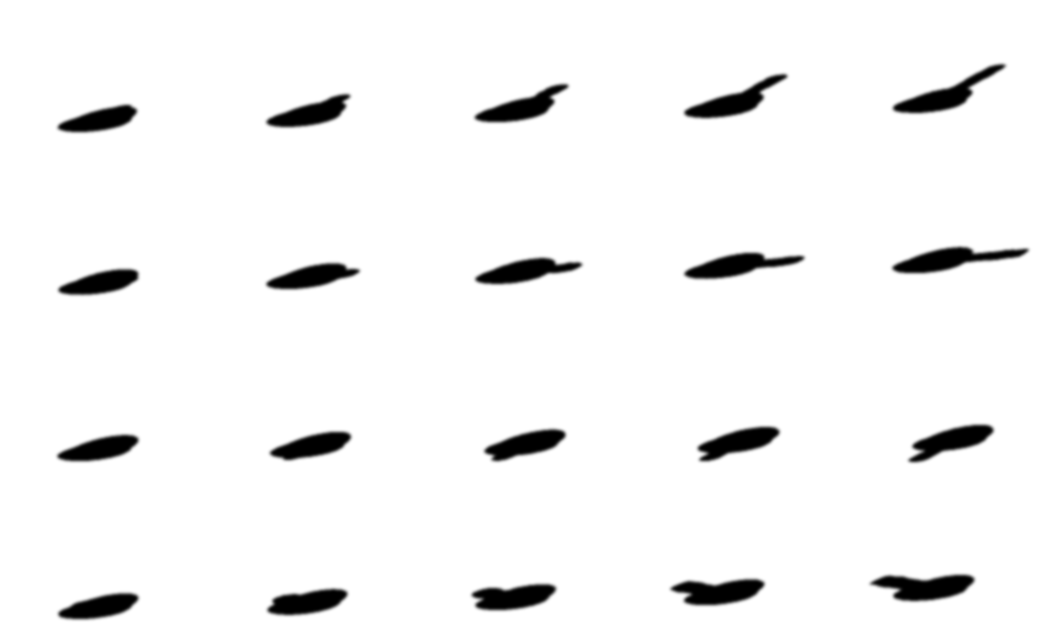
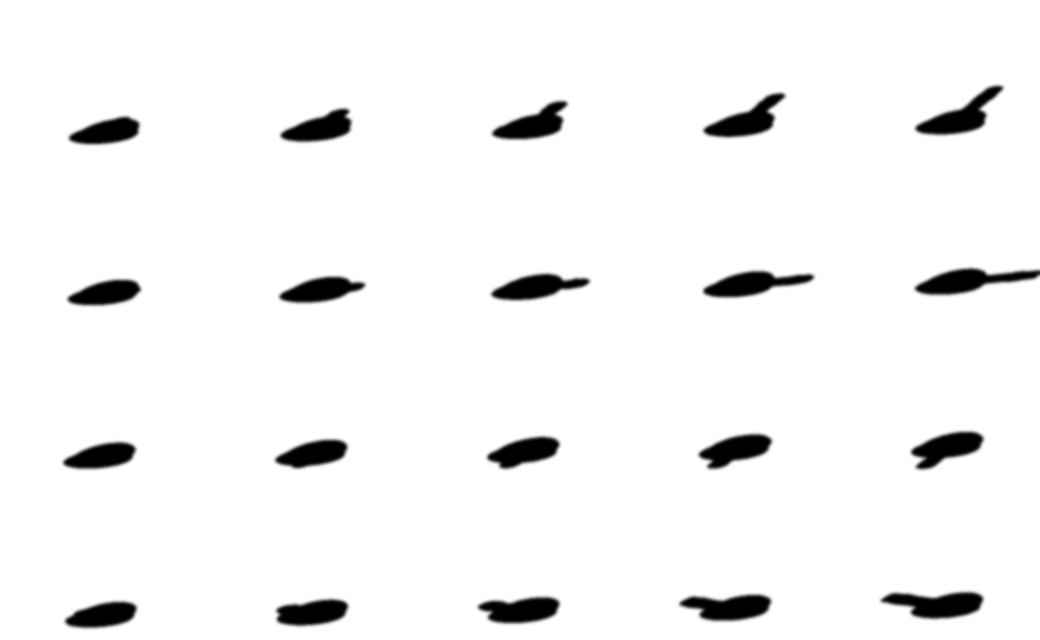
Vulcanus Demolisher Lifecycle: fix repacked shadows and mask fringe; 3-image packing
Review of the Nano Banana run (all 17 approved images pass the checker):
- Turret head shadows were projected from the head's own bottom and floated above the ground;
  they now fall on a ground line 44 px below the head (where the base stands), kept inside the
  shadow frame.
- The cyan player-colour area's dark-blue edge pixels are now absorbed into the mask instead of
  showing as a blue fringe on the collar.
- Re-applied every approved job; sprite check clean; preview updated.

Pipeline, from the agent's notes:
- kit.py --pack JOB packs a job's attachments into at most 3 images (layout, approved results
  sheet, vanilla references sheet); the preamble describes the sheets; AGENT.md uses it.
- check accepts the nearest supported aspect ratio (within 8%); AGENT.md says to save as is.
- AGENT.md: list missing vanilla references rather than substituting files.

Claude-Session: https://claude.ai/code/session_01Vp7HqdS8cvfkaxr5qz9UXH

diff --git a/art/vulcanus-demolisher-lifecycle/repack.py b/art/vulcanus-demolisher-lifecycle/repack.py
@@ -54,10 +54,15 @@ def hsv(img):
     return a[..., 0] * 360 / 255, a[..., 1] / 255, a[..., 2] / 255
 
 
-def cyan_pixels(img):
+def cyan_pixels(img, fringe=False):
     h, s, v = hsv(img)
     alpha = np.asarray(img)[..., 3] > 40
-    return alpha & (h > 160) & (h < 205) & (s > 0.3) & (v > 0.12)
+    core = alpha & (h > 160) & (h < 205) & (s > 0.3) & (v > 0.12)
+    if not fringe or not core.any():
+        return core
+    # Edges where the cyan darkens or blends toward blue belong to the same area.
+    near = np.asarray(Image.fromarray(core.astype(np.uint8) * 255).filter(ImageFilter.MaxFilter(5))) > 0
+    return core | (near & alpha & (h > 150) & (h < 265) & (s > 0.15))
 
 
 def hot_pixels(img):
@@ -75,7 +80,7 @@ def purple_pixels(img):
 def split_mask(img):
     """Cyan -> (main with neutral grey there, greyscale mask)."""
     arr = np.asarray(img).astype(np.float32).copy()
-    sel = cyan_pixels(img)
+    sel = cyan_pixels(img, fringe=True)
     _, _, v = hsv(img)
     grey = (v * 255 * 0.8)[sel]
     arr[sel, 0] = grey
@@ -104,19 +109,20 @@ def flat_shadow_of(img, size):
     return out
 
 
-def shadow_of(img, size):
+def shadow_of(img, size, float_px=0):
     """Silhouette projected onto the ground to the right (light from the upper left), in a frame of
-    `size` whose left edge lines up with img's."""
+    `size` whose left edge lines up with img's. The ground is float_px below the object's lowest
+    point (for a turret head, which is drawn above its base)."""
     alpha = img.getchannel("A").point(lambda a: 255 if a > 80 else 0)
     bbox = alpha.getbbox()
     out = Image.new("RGBA", size, (0, 0, 0, 0))
     if not bbox:
         return out
-    yb = bbox[3]
-    kv, s = 0.5, 0.9   # vertical squash toward the base, rightward shear
-    canvas = Image.new("L", size, 0)
+    yg = min(bbox[3] + float_px, size[1] - 4)   # the ground line stays inside the frame
+    kv, s = 0.5, 0.6 if float_px else 0.9   # vertical squash toward the ground, rightward shear
+    canvas = Image.new("L", (size[0], max(size[1], yg + 1)), 0)
     canvas.paste(alpha, (0, 0))
-    projected = canvas.transform(size, Image.AFFINE, (1, s / kv, -s * yb / kv, 0, 1 / kv, yb * (1 - 1 / kv)),
+    projected = canvas.transform(size, Image.AFFINE, (1, s / kv, -s * yg / kv, 0, 1 / kv, yg * (1 - 1 / kv)),
                                  resample=Image.BILINEAR)
     projected = projected.filter(ImageFilter.GaussianBlur(1.5))
     out.putalpha(projected)
@@ -209,8 +215,10 @@ def check(job, img):
                         f"(need {job.min_background:.0%}): background not pure #FF00FF?")
     w, h = img.size
     want = job.size[0] / job.size[1]
-    if abs(w / h - want) > 0.03:
-        problems.append(f"aspect ratio {w}x{h} is not {job.aspect}")
+    # A tool without the job's ratio may use the nearest one: the image is resized to the job's
+    # size, which undoes the stretch the model applied when following the layout.
+    if abs(w / h - want) / want > 0.08:
+        problems.append(f"aspect ratio {w}x{h} is too far from {job.aspect}")
     return dict(job=job.name, passed=not problems, problems=problems, cells=rows,
                 magenta_background=round(float(magenta_share), 3), image_size=[w, h])
 
@@ -233,6 +241,7 @@ def apply(job, img):
         s.paste(Image.new("RGBA", (frame.w, frame.h), (0, 0, 0, 0)), box[:2])
         s.paste(image.crop((0, 0, frame.w, frame.h)), box[:2])
 
+    clipped = []
     for slot, f in zip(job.slots, frames):
         if slot is None:
             continue
@@ -246,10 +255,17 @@ def apply(job, img):
             put(slot.glow, glow_of(f))
         if slot.shadow:
             make = flat_shadow_of if slot.flat_shadow else shadow_of
-            put(slot.shadow, make(main, (slot.shadow.w, slot.shadow.h)))
+            size = (slot.shadow.w, slot.shadow.h)
+            shadow = make(main, size) if slot.flat_shadow else make(main, size, slot.float_px)
+            box = shadow.getbbox()
+            if box and (box[2] >= size[0] or box[3] >= size[1]):
+                clipped.append(slot.shadow.rel)
+            put(slot.shadow, shadow)
         put(slot.main, main)
     for rel, img_ in sheets.items():
         img_.save(J.GRAPHICS / rel, optimize=True)
+    if clipped:
+        print(f"  note: {len(clipped)} shadow frame(s) reach the frame edge and are cut off")
     return sorted(sheets)
 
 

diff --git a/art/vulcanus-demolisher-lifecycle/kit.py b/art/vulcanus-demolisher-lifecycle/kit.py
@@ -13,6 +13,14 @@ kit/<job>/manifest.json:
   results of earlier jobs, then vanilla references), prompt (the full prompt text), output (where
   the approved image goes).
 Approved results are listed even before they exist; they must exist when the job runs.
+
+Image tools often take only a few attachments (Gemini's takes 3), so before generating a job run
+
+    python3 art/vulcanus-demolisher-lifecycle/kit.py --pack JOB
+
+It packs the job's attachments into at most 3 images in its kit folder and prints their paths:
+the layout, one sheet of the approved results it depends on (if any), and one sheet of the
+vanilla references.
 """
 
 import argparse
@@ -70,6 +78,46 @@ def rel(path):
     return str(path.relative_to(J.REPO))
 
 
+def contact_sheet(images, background, max_side=2048, gap=16):
+    """Images side by side in a near-square grid, each scaled to fit its tile."""
+    cols = max(1, round(len(images) ** 0.5 + 0.49))
+    rows = -(-len(images) // cols)
+    tile = (max_side - gap * (cols + 1)) // cols
+    out = Image.new("RGB", (cols * tile + gap * (cols + 1), rows * tile + gap * (rows + 1)), background)
+    for i, img in enumerate(images):
+        img = img.convert("RGB")
+        k = min(tile / img.width, tile / img.height)
+        img = img.resize((max(1, round(img.width * k)), max(1, round(img.height * k))), Image.LANCZOS)
+        x = gap + (i % cols) * (tile + gap) + (tile - img.width) // 2
+        y = gap + (i // cols) * (tile + gap) + (tile - img.height) // 2
+        out.paste(img, (x, y))
+    return out
+
+
+def pack(name):
+    """The job's attachments as at most 3 images; returns their paths."""
+    job = J.BY_NAME[name]
+    n = J.JOBS.index(job) + 1
+    d = J.KIT / f"{n:02d}-{name}"
+    manifest = json.loads((d / "manifest.json").read_text())
+    paths = [J.REPO / p for p in manifest["attachments"]]
+    approved = [p for p in paths if p.parent == J.APPROVED]
+    missing = [p for p in approved if not p.exists()]
+    if missing:
+        sys.exit("approve these first: " + ", ".join(p.stem for p in missing))
+    vanilla = [p for p in paths[1:] if p.parent != J.APPROVED]
+    out = [paths[0]]
+    if approved:
+        sheet = d / "packed-approved.png"
+        contact_sheet([Image.open(p) for p in approved], (255, 0, 255)).save(sheet)
+        out.append(sheet)
+    if vanilla:
+        sheet = d / "packed-references.png"
+        contact_sheet([Image.open(p) for p in vanilla], (128, 128, 128)).save(sheet)
+        out.append(sheet)
+    return out
+
+
 def build(data_dir):
     if J.KIT.exists():
         shutil.rmtree(J.KIT)
@@ -125,7 +173,12 @@ def main():
     ap = argparse.ArgumentParser(description=__doc__, formatter_class=argparse.RawDescriptionHelpFormatter)
     ap.add_argument("--factorio-data", type=lambda p: __import__("pathlib").Path(p).expanduser())
     ap.add_argument("--list", action="store_true", help="print the jobs in order and exit")
+    ap.add_argument("--pack", metavar="JOB", help="pack JOB's attachments into at most 3 images and print them")
     args = ap.parse_args()
+    if args.pack:
+        for p in pack(args.pack):
+            print(rel(p))
+        return 0
     if args.list:
         for n, job in enumerate(J.JOBS, 1):
             done = (J.APPROVED / f"{job.name}.png").exists()

diff --git a/art/vulcanus-demolisher-lifecycle/jobs.py b/art/vulcanus-demolisher-lifecycle/jobs.py
@@ -46,6 +46,7 @@ class Slot:
     glow: Frame = None
     shadow: Frame = None
     flat_shadow: bool = False
+    float_px: int = 0        # how far the bottom of the object is above the ground, in frame px
 
 
 @dataclass
@@ -82,9 +83,10 @@ and textures from the references over inventing new ones.
 The FIRST attached image is the layout: a grid with exactly what goes in each cell. Keep the same
 grid, the same number of cells, each object centred in its cell at the same position and size as
 in the layout, and the same facing direction and pose per cell. Replace the layout's flat shapes
-with finished art; don't move, resize, rotate, add or remove anything. Any further attached
-images that are earlier approved results of this same project define the design: match them
-exactly.
+with finished art; don't move, resize, rotate, add or remove anything. The other attached images
+are reference sheets: one with a magenta background collects earlier approved results of this
+same project, which define the design (match them exactly); one with a grey background collects
+vanilla Factorio sprites, for the style and the parts to kitbash from.
 
 Output rules:
 - Background: flat, uniform pure magenta #FF00FF everywhere that isn't the object. No gradient,
@@ -238,12 +240,16 @@ def whole_turret(direction):
 # Slots
 
 T = "entity/lure-turret/"
+# The head is drawn 44 px higher than the base (shifts -24 and -2 game px, doubled here): its
+# shadow falls that far below it.
+HEAD_FLOAT = 44
 
 
 def shooting_slot(stripe, col, row):
     return Slot(Frame(f"{T}lure-turret-shooting-{stripe}.png", 160, 160, col, row),
                 mask=Frame(f"{T}lure-turret-shooting-mask-{stripe}.png", 160, 160, col, row),
-                shadow=Frame(f"{T}lure-turret-shooting-shadow-{stripe}.png", 208, 160, col, row))
+                shadow=Frame(f"{T}lure-turret-shooting-shadow-{stripe}.png", 208, 160, col, row),
+                float_px=HEAD_FLOAT)
 
 
 BASE_SLOT = Slot(Frame(f"{T}lure-turret-base.png", 160, 160),
@@ -321,7 +327,7 @@ JOBS.append(Job(
     name="turret-raising", aspect="5:4", size=(1280, 1024), grid=(5, 4),
     slots=[Slot(Frame(f"{T}lure-turret-raising.png", 160, 160, k, d),
                 mask=Frame(f"{T}lure-turret-raising-mask.png", 160, 160, k, d),
-                shadow=Frame(f"{T}lure-turret-raising-shadow.png", 208, 160, k, d))
+                shadow=Frame(f"{T}lure-turret-raising-shadow.png", 208, 160, k, d), float_px=HEAD_FLOAT)
            for d in range(4) for k in range(5)],
     player_colour=True, prompt=TURRET_RAISING, depends=["turret-design", "turret-shooting-1-idle"],
     vanilla=[V_GUN_RAISING],

diff --git a/art/vulcanus-demolisher-lifecycle/AGENT.md b/art/vulcanus-demolisher-lifecycle/AGENT.md
@@ -25,9 +25,12 @@ Everything you need is in this folder (`art/vulcanus-demolisher-lifecycle/`):
 - **Prompts:** use each job's prompt exactly as given in its manifest. You may append a short
   correction paragraph when regenerating (see the loop), but never remove or reword the given
   text.
-- **Attachments:** attach the images in the manifest's order. The layout grid is always first.
-- **Aspect ratio:** always ask for the manifest's aspect ratio, and the largest output size the
-  tool offers. Use Nano Banana Pro if you can choose; otherwise the default image model.
+- **Attachments:** attach exactly the images `kit.py --pack <job>` prints, in that order (at most 3:
+  the layout first). Don't build your own composites.
+- **Aspect ratio:** ask for the manifest's aspect ratio, and the largest output size the tool
+  offers. If the tool doesn't offer that ratio, use the nearest one it has and save the result
+  as it comes; `check` and `apply` resize it themselves. Use Nano Banana Pro if you can choose;
+  otherwise the default image model.
 - **Git:** don't push and don't open pull requests. Commit locally at the end (see Finish).
 - **When to stop and ask:** only for the problems listed under "Stop and ask". Everything else
   you decide yourself and record in the report.
@@ -47,7 +50,9 @@ Everything you need is in this folder (`art/vulcanus-demolisher-lifecycle/`):
    macOS `factorio.app/Contents/MacOS/factorio`); it's used for the final check.
 3. Build the kit from the repository root:
    `python3 art/vulcanus-demolisher-lifecycle/kit.py --factorio-data "<data folder>"`.
-   It must finish without "Missing vanilla references".
+   If it reports missing vanilla references, first check you have the right `data/` folder.
+   If files are still missing, carry on without them and list them in the report; don't
+   substitute other files.
 4. Run `python3 art/vulcanus-demolisher-lifecycle/kit.py --list` to see the jobs in order and
    which are already approved. Approved images live in `art/vulcanus-demolisher-lifecycle/approved/`;
    skip those jobs (this lets you resume).
@@ -57,9 +62,10 @@ Everything you need is in this folder (`art/vulcanus-demolisher-lifecycle/`):
 Each job's folder is `art/vulcanus-demolisher-lifecycle/kit/NN-<job>/`. Read its `manifest.json`.
 1. **Check prerequisites.** Every `approved/...` path in `attachments` must exist. They do if you
    go in order.
-2. **Generate.** Call the image tool with:
+2. **Generate.** Run `python3 art/vulcanus-demolisher-lifecycle/kit.py --pack <job>`, then call
+   the image tool with:
    - the manifest's `prompt`;
-   - all `attachments`, in order;
+   - the images it printed, in order;
    - the manifest's `aspect_ratio`.
 
    Save the result as `art/vulcanus-demolisher-lifecycle/work/<job>/attempt-N.png`, with N

diff --git a/art/vulcanus-demolisher-lifecycle/REPORT.md b/art/vulcanus-demolisher-lifecycle/REPORT.md
@@ -41,3 +41,21 @@ None.
 - **Lure turret (`preview.png` and in-game):** Check the turret collar ring at south/south-west headings in game—in `preview.png`, a faint ~1 px dark-blue fringe appears along the shadowed front edge of the collar where `split_mask` stops thresholding dark cyan (`v <= 0.12` or `s <= 0.3`), and verify smooth rotation/recoil/raising animation transitions across all 64 firing directions.
 - **Eggs and nests:** Verify the glow intensity of egg seams (`demolisher-egg-glow.png`) and nest fissures against Vulcanus terrain, and check whether `nest-2` needs more distinct outer rock variation from `nest-1` when multiple nests sit side by side.
 - **Icons and technology:** Check the `lure-turret` item icon (`64x64`, slight framing offset) and `lure-turret` technology icon (`256x256`) in the crafting and tech UI.
+
+## Follow-up review (Claude, 2026-11-16)
+
+- **All 17 approved images re-checked:** every one passes `repack.py check`.
+- **Repack fixes,** then `apply` was re-run from the same approved images:
+  - **Head shadows** now land on the ground below the base. They used to float above and to the
+    right of the turret, because the head is drawn 44 px above the ground.
+  - **Player-colour collar:** the blue edge fringe is now absorbed into the mask.
+  - **Shadows inside their frames:** the ground line is kept inside each shadow frame. South-facing
+    raising frames had lost up to 6 px.
+- **Pipeline changes from this run's notes:**
+  - `kit.py --pack` packs each job's attachments into at most 3 images.
+  - The checker accepts the nearest supported aspect ratio (within 8%).
+- **Vanilla paths left unchanged:** the game's own 2.1.23 sprite metadata loads
+  `foundry-base.png`, `vulcanus-rocks/vulcanus-rock-big-N.png` and
+  `icons/big-volcanic-rock-hot.png`, so the substitute paths noted above may come from a different
+  layout on that machine. The agent instructions now say to list missing references, not
+  substitute them.

diff --git a/art/vulcanus-demolisher-lifecycle/PROMPTS.md b/art/vulcanus-demolisher-lifecycle/PROMPTS.md
@@ -20,9 +20,10 @@ and textures from the references over inventing new ones.
 The FIRST attached image is the layout: a grid with exactly what goes in each cell. Keep the same
 grid, the same number of cells, each object centred in its cell at the same position and size as
 in the layout, and the same facing direction and pose per cell. Replace the layout's flat shapes
-with finished art; don't move, resize, rotate, add or remove anything. Any further attached
-images that are earlier approved results of this same project define the design: match them
-exactly.
+with finished art; don't move, resize, rotate, add or remove anything. The other attached images
+are reference sheets: one with a magenta background collects earlier approved results of this
+same project, which define the design (match them exactly); one with a grey background collects
+vanilla Factorio sprites, for the style and the parts to kitbash from.
 
 Output rules:
 - Background: flat, uniform pure magenta #FF00FF everywhere that isn't the object. No gradient,
